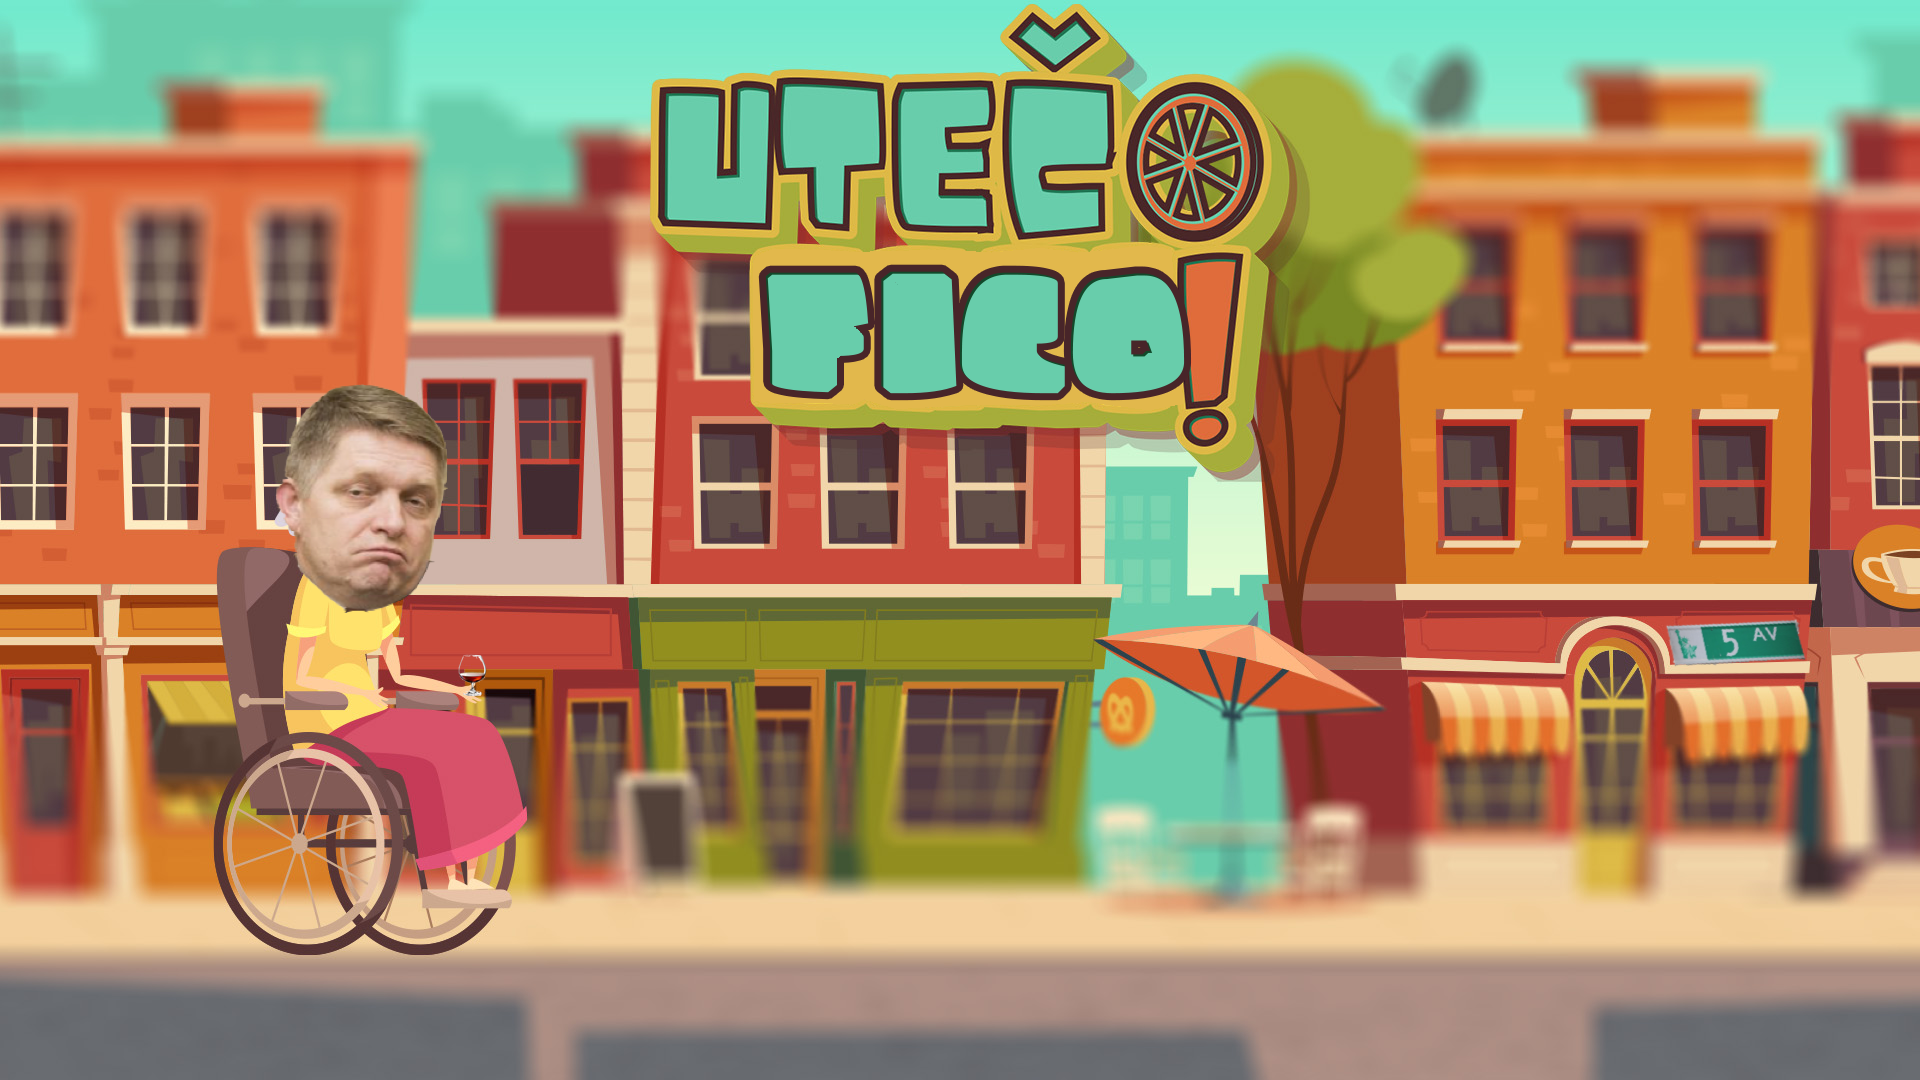
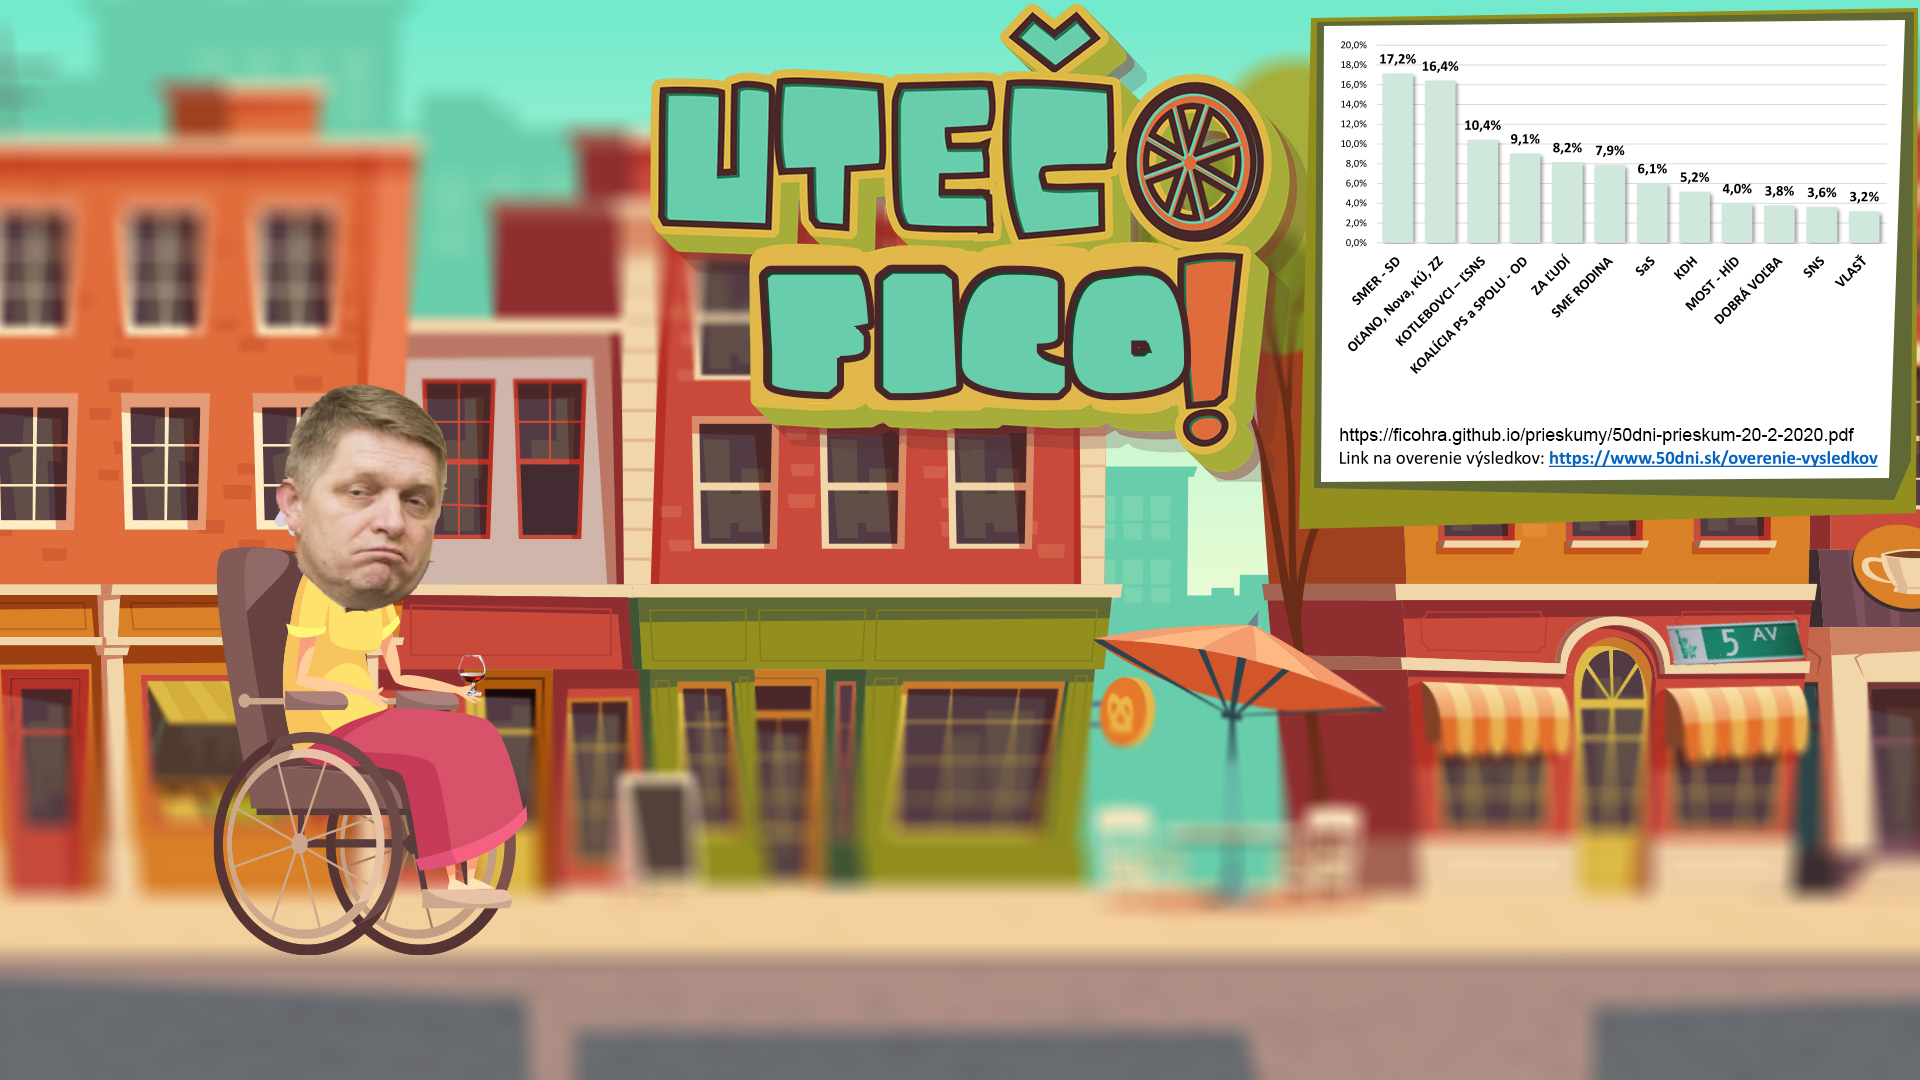
prva vlna prieskumov

Changed region(s): [[0.6562, 0.0, 1.0, 0.4889]]

diff --git a/index.html b/index.html
@@ -18,8 +18,6 @@
 </head>
 
 <body>
-    <div id="fb-root"></div>
-
     <noscript>
 		<div id="notSupportedWrap">
 			<h2 id="notSupportedTitle">This content requires JavaScript</h2>
